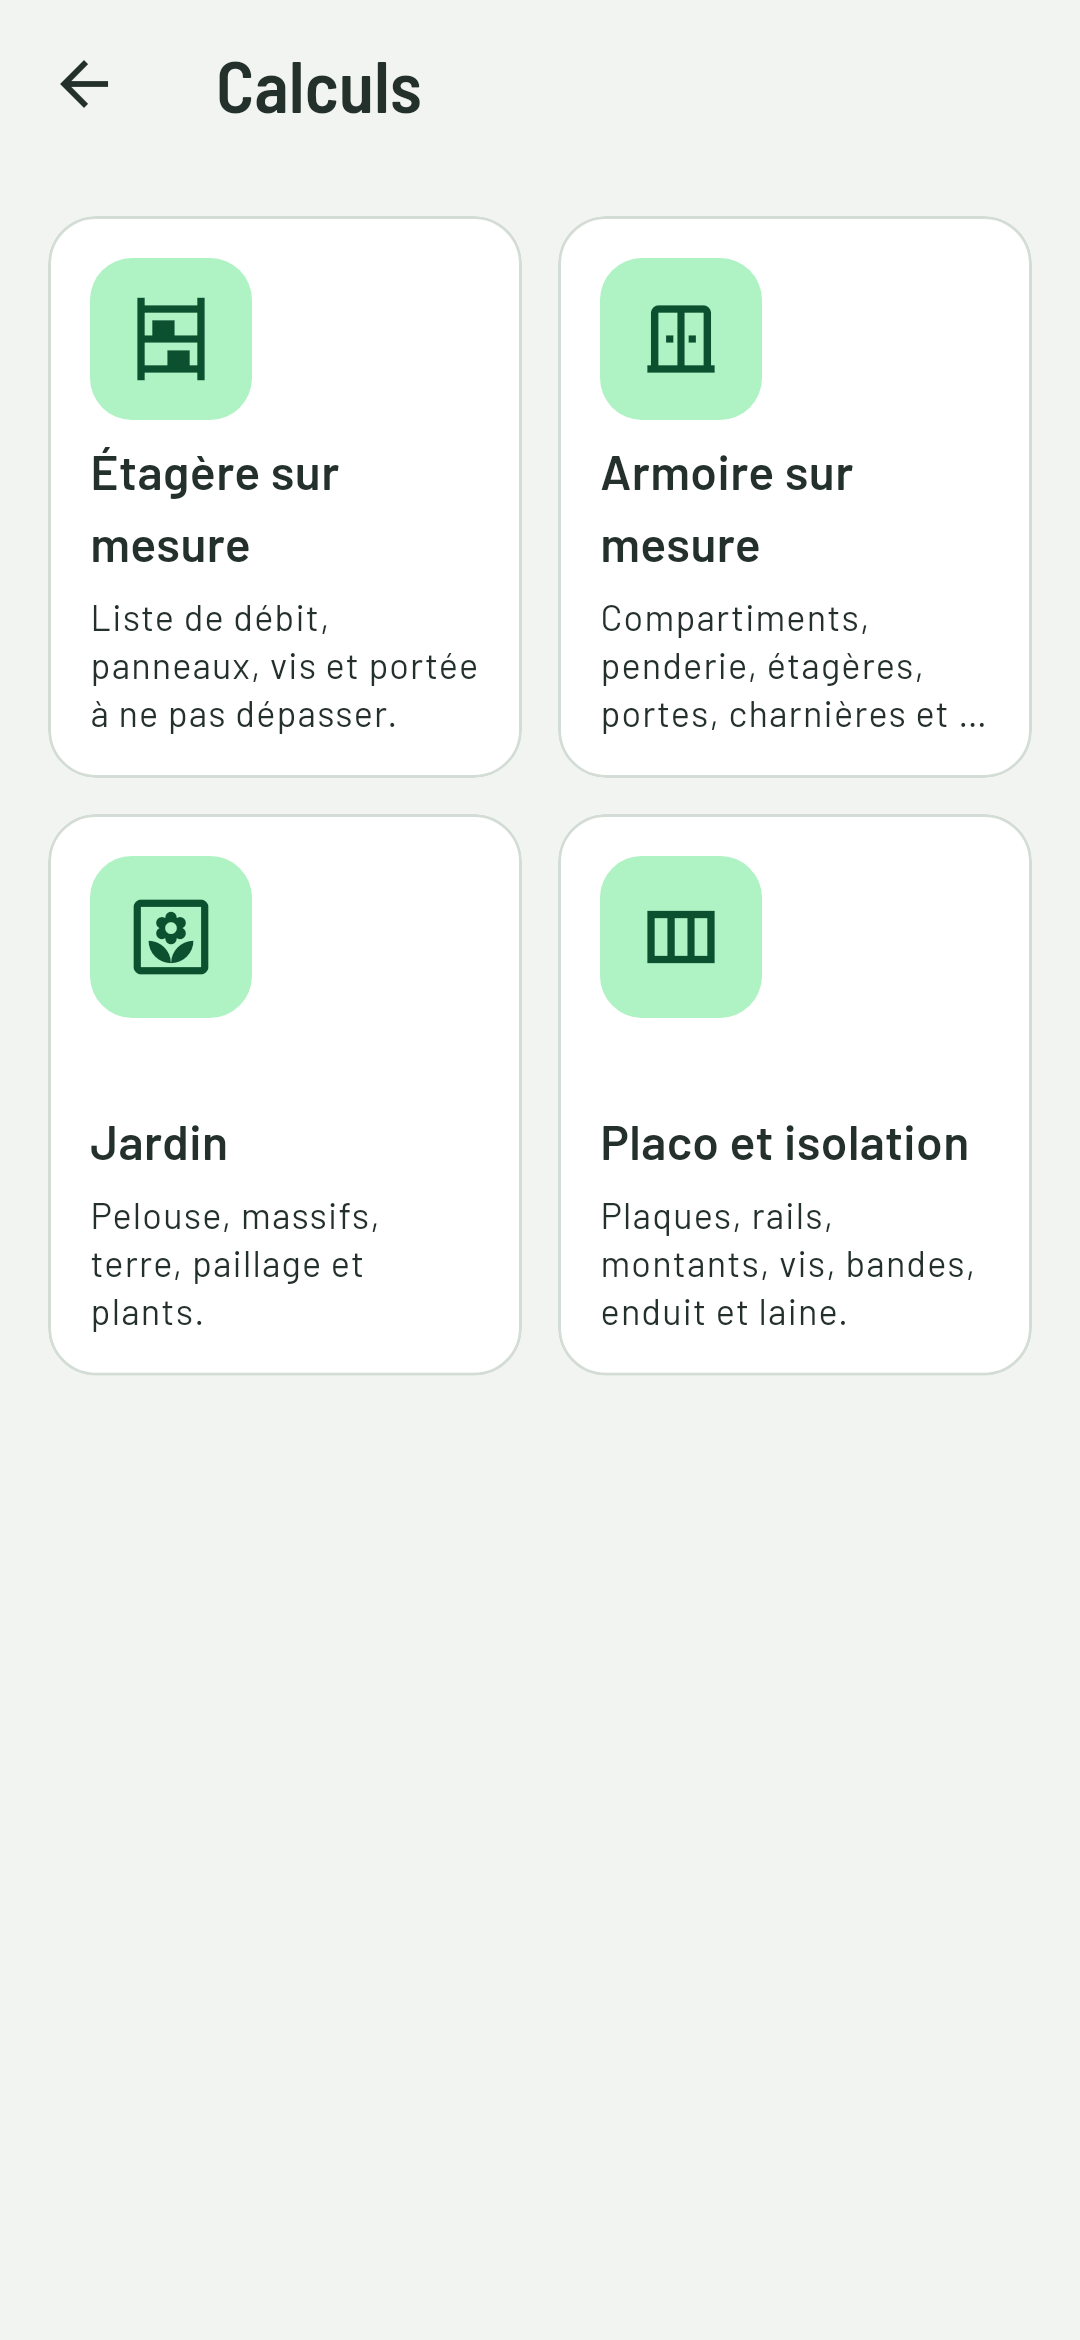
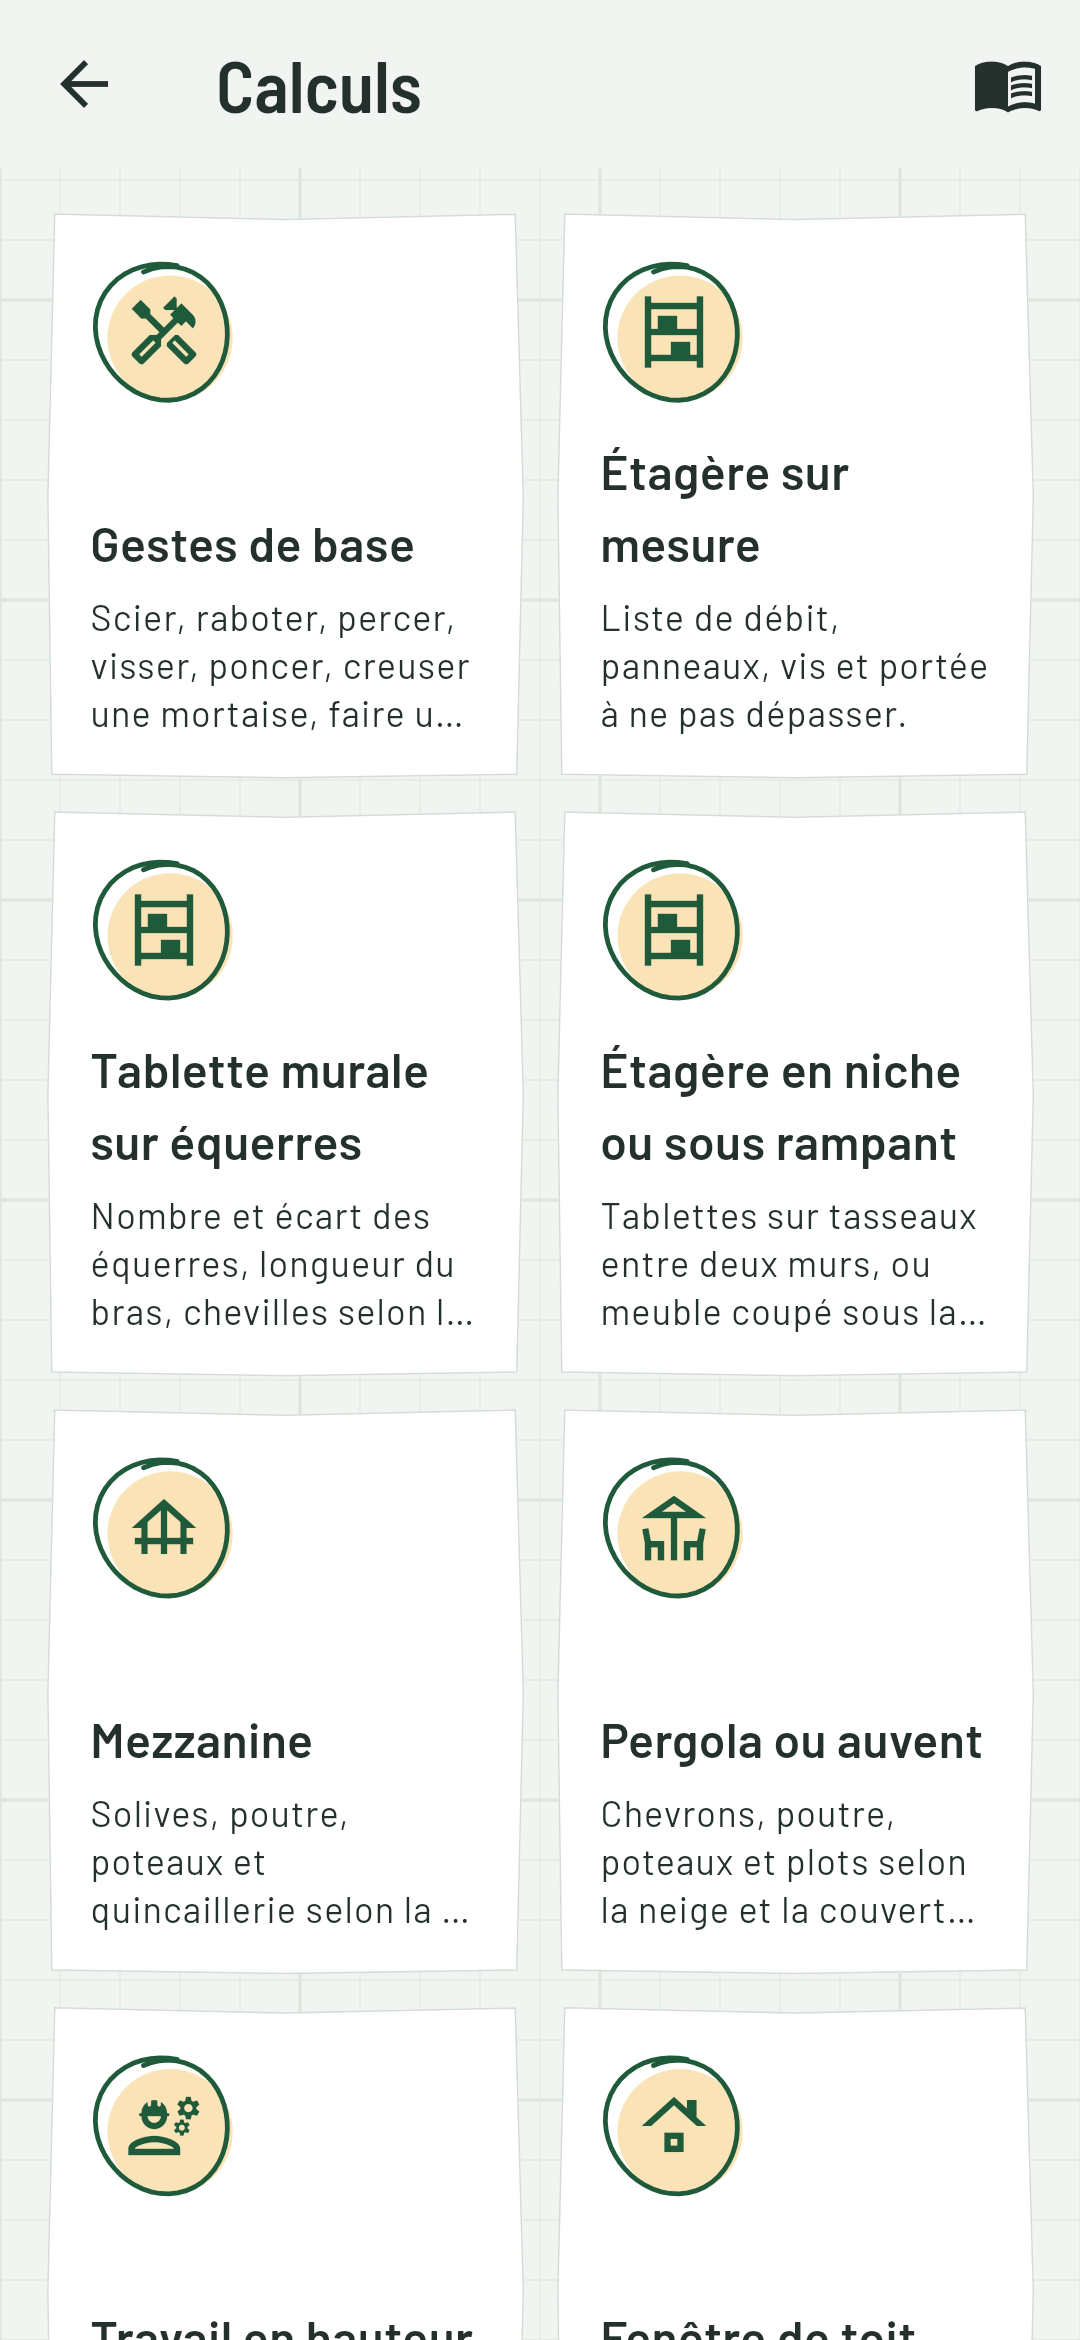
docs : captures refaites avec l'habillage carnet, dix croquis de plus

diff --git a/README.md b/README.md
@@ -14,7 +14,11 @@ Tout reste sur le téléphone, sans compte ni connexion : l'appli n'a pas la per
 |---|---|---|---|
 | ![Peinture](docs/captures/11-peinture.png) | ![Conseil](docs/captures/12-conseil.png) | ![Calculs](docs/captures/13-calculs.png) | ![Étagère](docs/captures/14-etagere.png) |
 
-Captures faites sur un chantier fictif par le workflow Captures (`test/captures/`), à chaque changement d'interface. Les nouvelles versions sont dans l'artefact `captures` de son dernier passage.
+| Pièce sous rampants | Fenêtre bois | Faux plafond | Placard sous rampant | Scier droit |
+|---|---|---|---|---|
+| ![Pièce sous rampants](docs/captures/15-rampants.png) | ![Fenêtre bois](docs/captures/16-fenetre-bois.png) | ![Faux plafond](docs/captures/22-faux-plafond.png) | ![Placard sous rampant](docs/captures/23-placard-rampant.png) | ![Scier droit](docs/captures/24-geste-scier.png) |
+
+Captures faites sur un chantier fictif par le workflow Captures (`test/captures/`), à chaque changement d'interface. Les nouvelles versions sont dans l'artefact `captures` de son dernier passage. Le portfolio recopie celles de `docs/captures/` à chaque publication : un nom de fichier qui change doit y être reporté.
 
 ## Ce que fait l'appli
 

diff --git a/CHANGELOG.md b/CHANGELOG.md
@@ -10,6 +10,9 @@
 - Faux plafond pour les pièces trop hautes : vide restant au-dessus, type de suspentes selon ce vide, fourrures, suspentes, tiges filetées, éclisses, cornières, plaques et vis, volume en moins à chauffer, alerte sous 2,20 m, et une coupe en relief
 - Placard sous rampant : où poser la façade, volume de rangement, modules à une porte, montants coupés à l'angle du toit, portes et charnières, bacs sur roulettes qui vont chercher le fond, tablette, panneaux à acheter, et le placard dessiné en relief avec une porte ouverte
 
+### Documentation
+- Captures de `docs/captures/` refaites avec l'habillage carnet d'atelier, et dix nouvelles : pièce sous rampants, fenêtre bois, embrasure, lexique, finitions, condensation, faux plafond, placard sous rampant et geste « scier droit »
+
 ### Corrigé
 - Plantage au premier accès au stockage (chantiers, sauvegarde du jour) : `jni` 1.2.0 ne retrouve plus les classes Android demandées par `path_provider_android`, il est bloqué sous 1.2 en attendant une mise à jour du greffon
 
